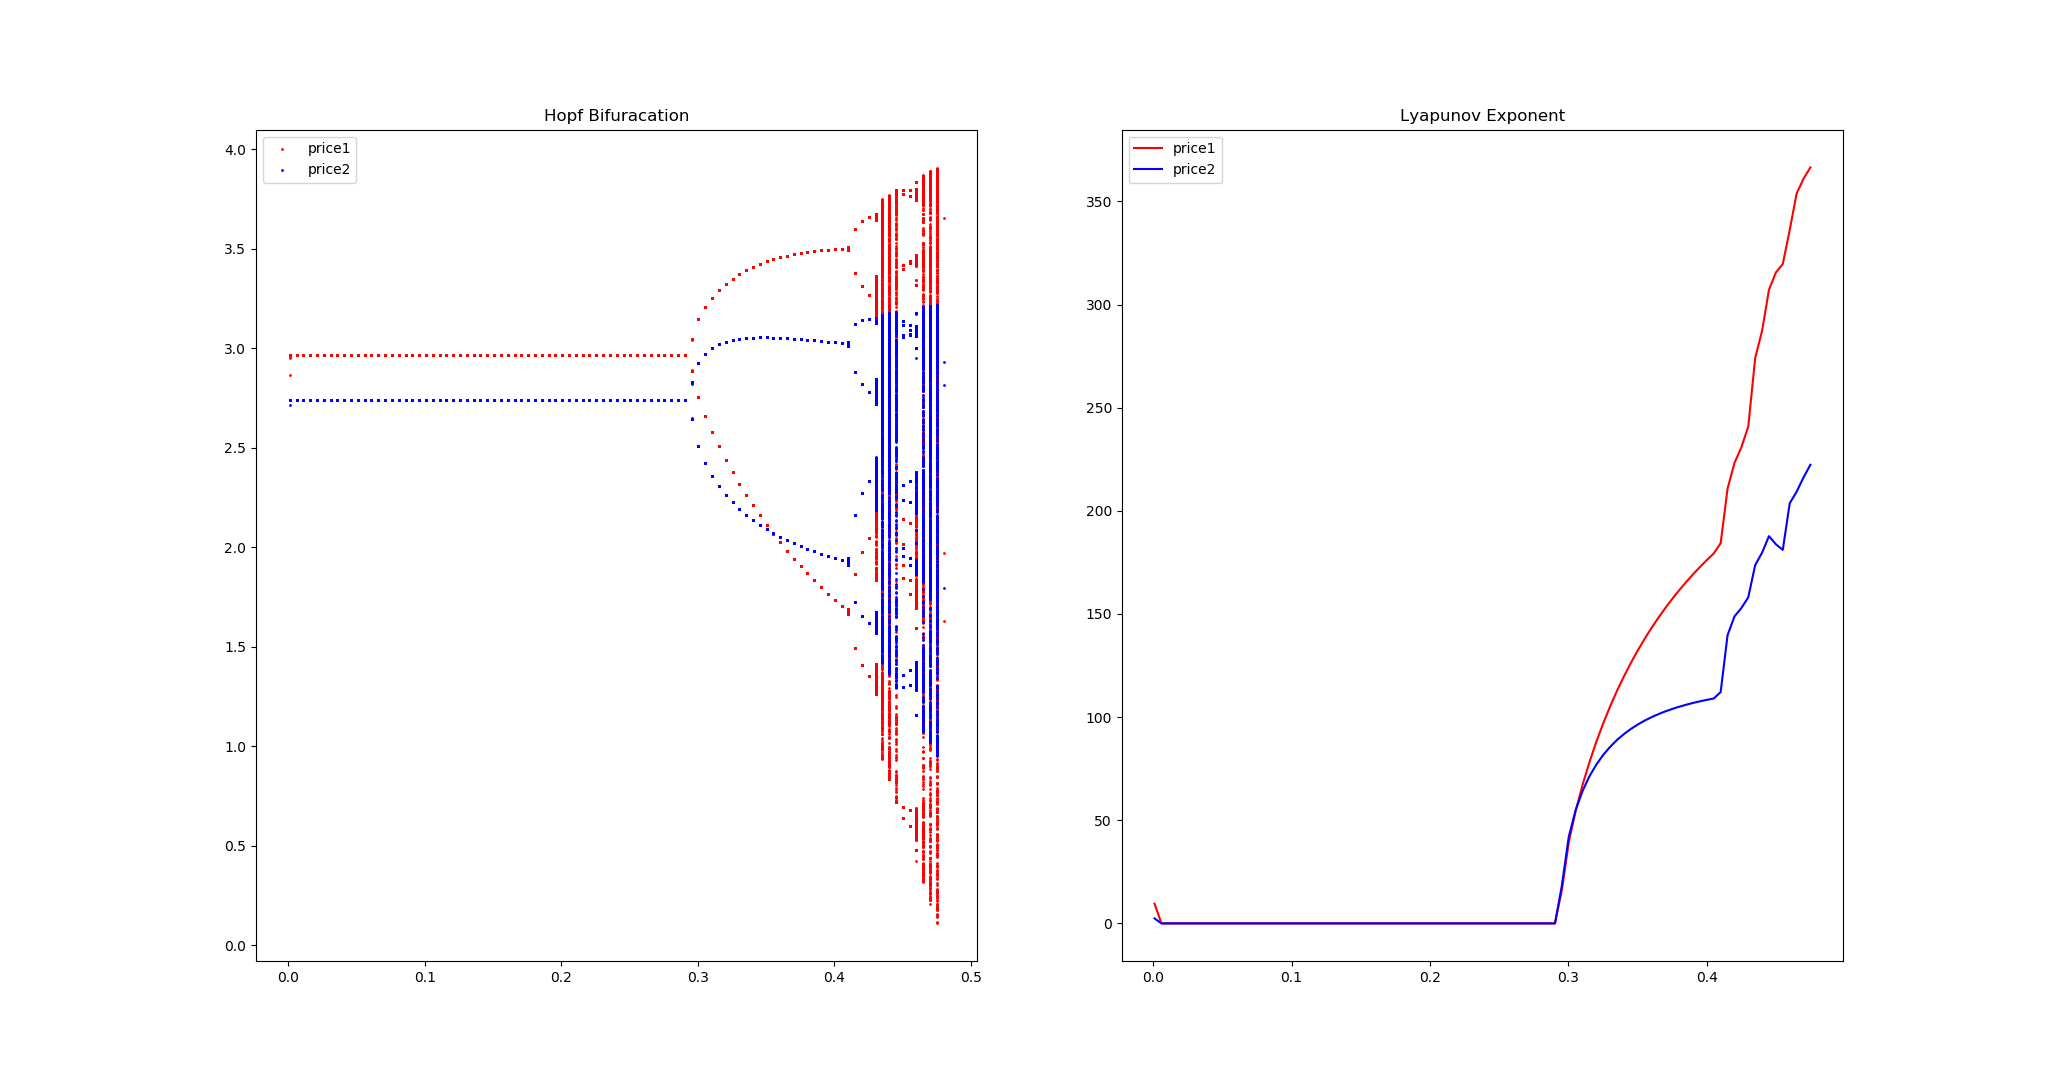
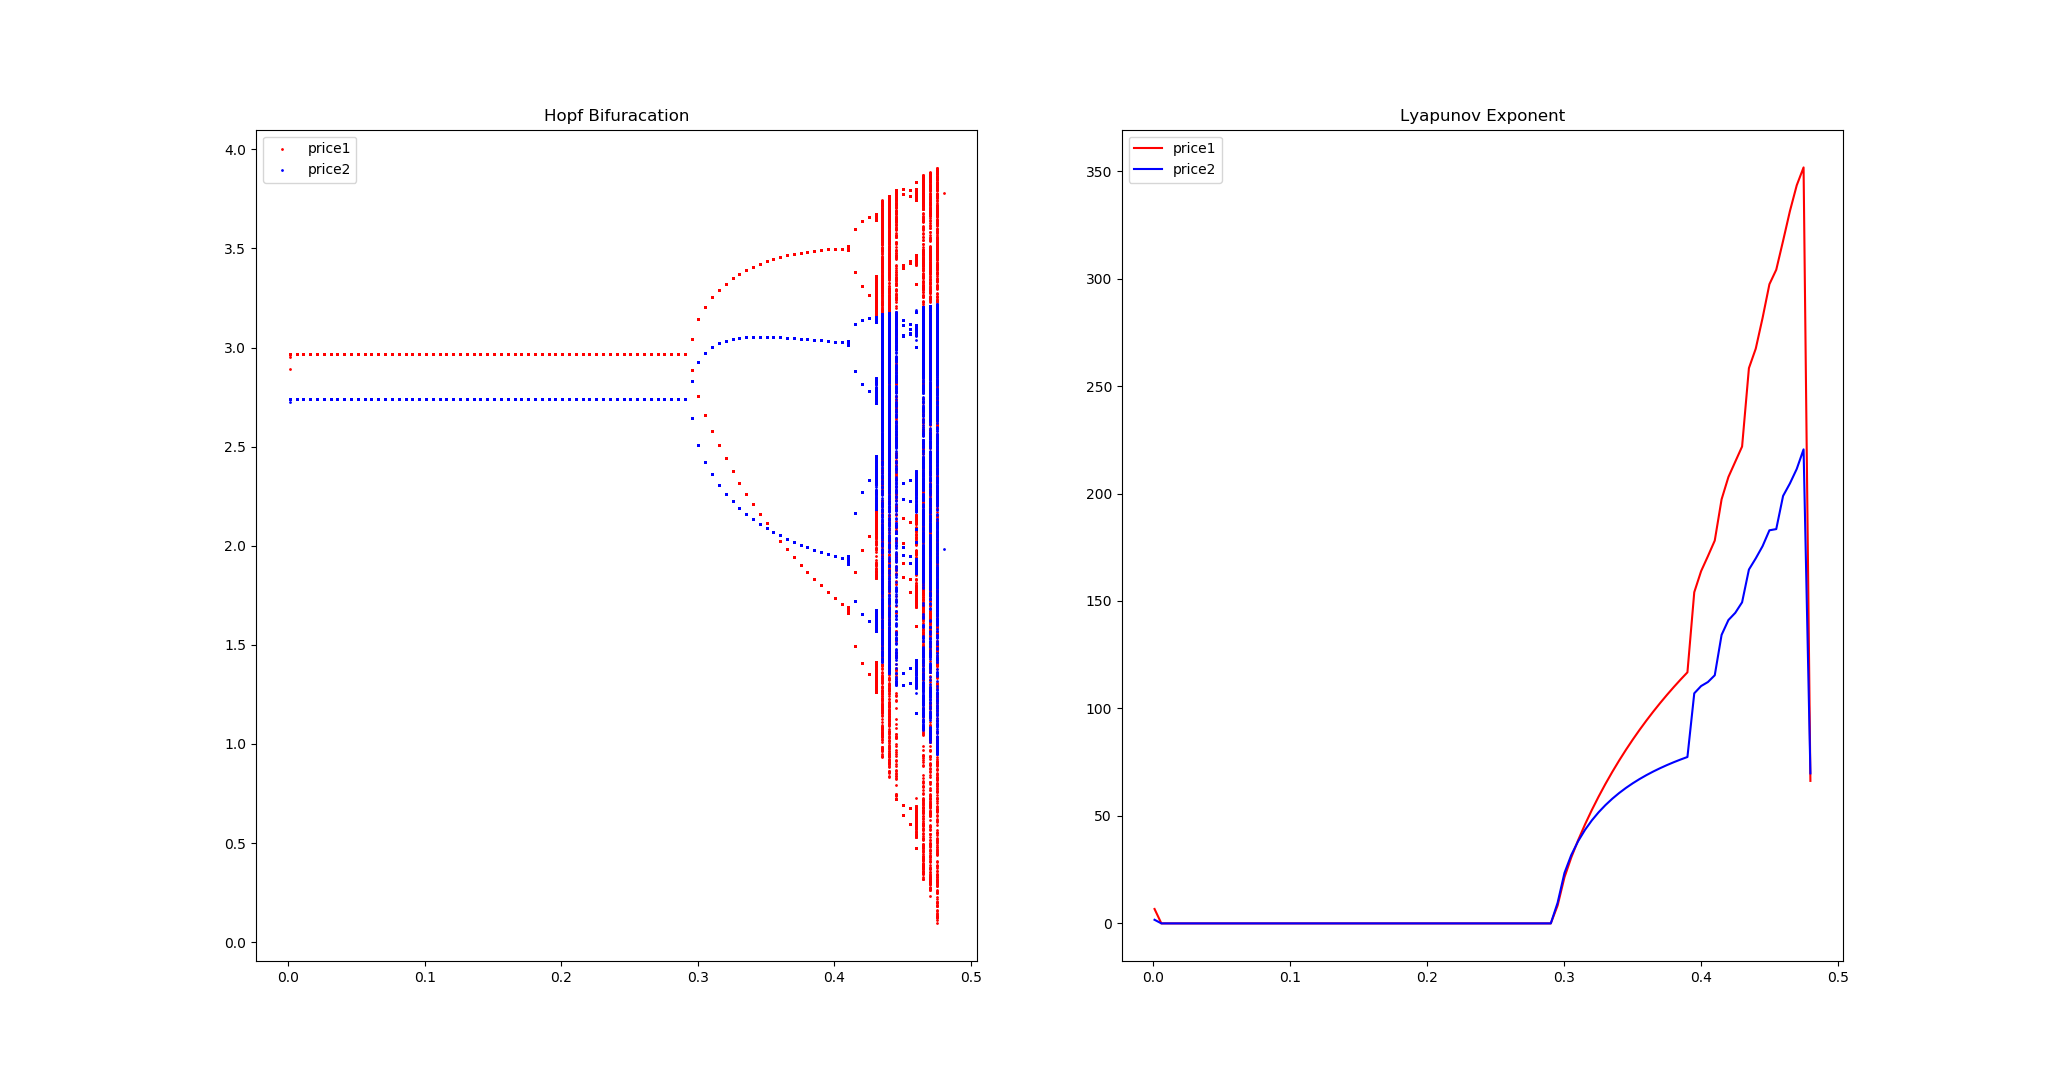
add Lyapunov exponent, deprecate non-gpu, attractor (test)

diff --git a/dual_channel_nash_game_gpu.py b/dual_channel_nash_game_gpu.py
@@ -6,6 +6,22 @@ up_lmt = 0.5
 low_lmt = 0.001
 
 
+def iter_attractor(C, iter_num):
+    p = [np.random.rand() * 2, np.random.rand() * 2]
+    while True:
+        result = []
+        [x, y] = p
+        for i in range(iter_num):
+            xx = x + x * C[0] * (5.25 - 2 * x + 0.25 * y)
+            yy = y + y * C[1] * (4 - 2 * y + 0.5 * x)
+            x = xx
+            y = yy
+            result.append([x, y])
+        if (result[-1][0] is not None) and (abs(result[-1][0] - result[-2][0]) < eps):
+            break
+    return result
+
+
 @cuda.jit
 def gpu_iter(A, B, AA, BB, C, D, iter_num):
     i = cuda.grid(1)
@@ -14,13 +30,11 @@ def gpu_iter(A, B, AA, BB, C, D, iter_num):
         BB[i] = B[i] + eps
         for k in range(1, iter_num):
             p = A[i] + A[i] * C[i] * (5.25 - 2 * A[i] + 0.25 * B[i])
-            pp = AA[i] + AA[i] * C[i] * (5.25 - 2 * AA[i] + 0.25 * BB[i])
-            q = B[i] + B[i] * D[i] * (4 - 2 * B[i] + 0.5 * A[i])
-            qq = BB[i] + BB[i] * D[i] * (4 - 2 * BB[i] + 0.5 * AA[i])
+            pp = AA[i] = AA[i] + AA[i] * C[i] * (5.25 - 2 * AA[i] + 0.25 * BB[i])
+            B[i] = B[i] + B[i] * D[i] * (4 - 2 * B[i] + 0.5 * A[i])
+            BB[i] = BB[i] + BB[i] * D[i] * (4 - 2 * BB[i] + 0.5 * AA[i])
             A[i] = p
             AA[i] = pp
-            B[i] = q
-            BB[i] = qq
 
 
 def iter_function(x, y, iter_num):

diff --git a/bifurcation.py b/bifurcation.py
@@ -1,6 +1,6 @@
 import numpy as np
 import matplotlib.pyplot as plt
-from dual_channel_nash_game_gpu import up_lmt, low_lmt, iter_function
+from dual_channel_nash_game_gpu import up_lmt, low_lmt, iter_function, iter_attractor
 
 
 class Bifuracation:
@@ -25,7 +25,14 @@ class Bifuracation:
         self.x_axis = test_points[0]
         self.lya_exp = [np.nanmax(self.lya_exp[i].reshape((self.batch_size, -1)), axis=0) for i in range(2)]
 
-    def show(self):
+    def show_random_attractor(self, k):
+        trajectory = iter_attractor(k, 1000)
+        trajectory = np.array(trajectory)
+        print(trajectory)
+        plt.plot(trajectory[:, 0], trajectory[:, 1])
+        plt.show()
+
+    def show_Hopf_Lyapunov(self):
         plt.figure(figsize=(20.48, 10.80))
         plt.subplot(121)
         scatter1 = plt.scatter(self.x_axis, self.bifu[0], label='price1', color='r', s=1)

diff --git a/__init__.py b/__init__.py
@@ -4,6 +4,7 @@ from bifurcation import Bifuracation
 start = time.time()
 bifu = Bifuracation()
 bifu.batch_compute()
+bifu.show_random_attractor([0.2, 0.2])
 end = time.time()
 print(end - start)
-bifu.show()
+bifu.show_Hopf_Lyapunov()
